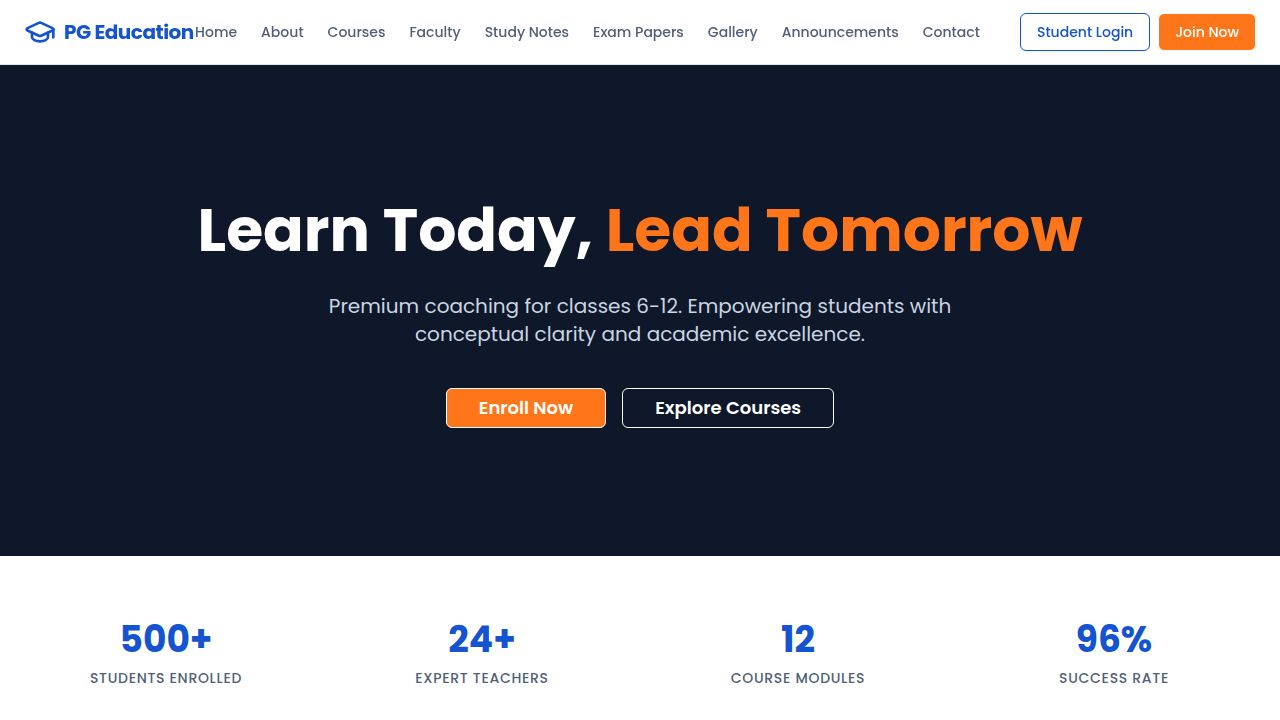
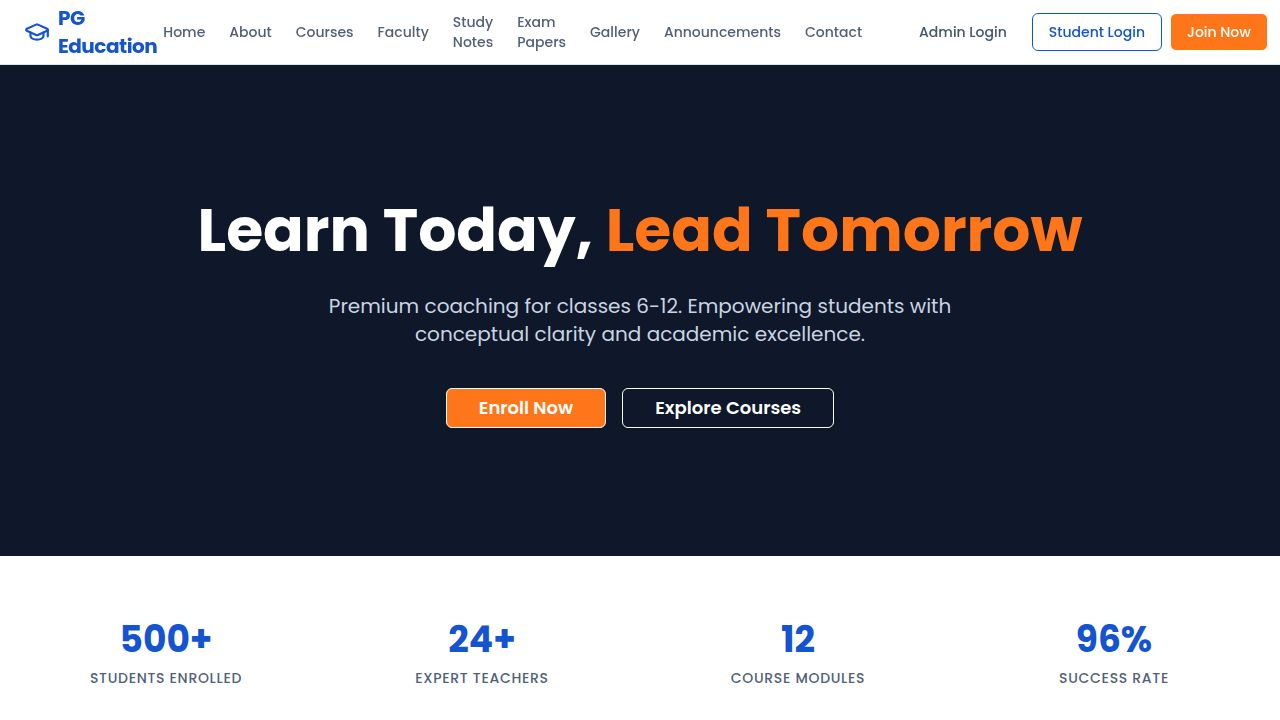
Add Admin Login button and improve error messages for authentication
Add "Admin Login" button to the public layout for both desktop and mobile navigation, and update the error message on the admin login page to "Invalid Username or Password".

Replit-Commit-Author: Agent
Replit-Commit-Session-Id: fc89d72f-3add-4f4d-8c77-e8ea33c7f582
Replit-Commit-Checkpoint-Type: full_checkpoint
Replit-Commit-Event-Id: 42f7cf09-0971-4007-9643-a15cd43cbcda
Replit-Commit-Screenshot-Url: https://storage.googleapis.com/screenshot-production-us-central1/ee213120-c739-4ffb-babc-ea12c1103ba5/fc89d72f-3add-4f4d-8c77-e8ea33c7f582/vve4kPt
Replit-Helium-Checkpoint-Created: true

Changed region(s): [[0.0, 0.0, 1.0, 0.0917]]

diff --git a/artifacts/pg-education/src/components/layout/public-layout.tsx b/artifacts/pg-education/src/components/layout/public-layout.tsx
@@ -35,6 +35,9 @@ export function PublicLayout({ children }: { children: React.ReactNode }) {
               </Link>
             ))}
             <div className="flex items-center gap-2 ml-4">
+              <Link href="/admin/login">
+                <Button variant="ghost" className="text-slate-600 hover:text-primary">Admin Login</Button>
+              </Link>
               <Link href="/student/login">
                 <Button variant="outline" className="border-primary text-primary hover:bg-primary/10">Student Login</Button>
               </Link>
@@ -66,6 +69,9 @@ export function PublicLayout({ children }: { children: React.ReactNode }) {
               </Link>
               <Link href="/student/register" onClick={() => setIsMenuOpen(false)}>
                 <Button className="w-full justify-center">Join Now</Button>
+              </Link>
+              <Link href="/admin/login" onClick={() => setIsMenuOpen(false)}>
+                <Button variant="ghost" className="w-full justify-center text-slate-600">Admin Login</Button>
               </Link>
             </div>
           </div>

diff --git a/artifacts/pg-education/src/pages/admin/login.tsx b/artifacts/pg-education/src/pages/admin/login.tsx
@@ -37,7 +37,7 @@ export default function AdminLogin() {
       toast({
         variant: "destructive",
         title: "Login Failed",
-        description: "Invalid admin credentials.",
+        description: "Invalid Username or Password",
       });
     }
   };